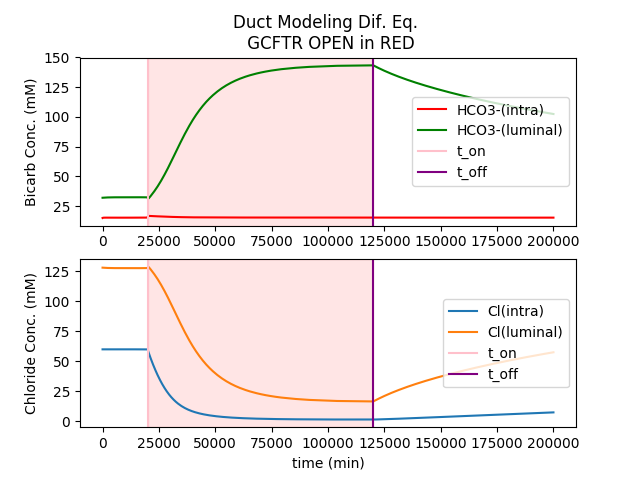
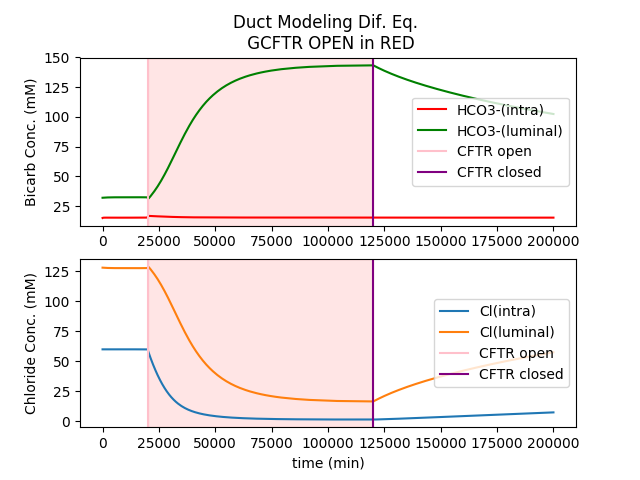
added smoking penalty and combination of smoking with variants

diff --git a/DCW_duct_graphing_functions.py b/DCW_duct_graphing_functions.py
@@ -18,7 +18,7 @@ import numpy.random as rnd
 import copy
 from DCW_duct_model import duct_model_system, init_cond
 
-def graph_generation(graph_type, input_dict, variant_impact = None):
+def graph_generation(graph_type, input_dict, variant_impact = None, smoking_status = None):
 	filename = None
 	if graph_type == 'GCFTR':
 		filename = graph_CFTR(cftr_calc_HCO3_Cl(input_dict, 20000, 120000, 200000),'GCFTR')
@@ -29,6 +29,11 @@ def graph_generation(graph_type, input_dict, variant_impact = None):
 		filename = graph_antiporters(antiporters_calc(input_dict, 20000, 120000, 200000), 'antiporter_onoff')
 	elif graph_type == 'Variant Impact':
 		filename = graph_variant_impact(calc_variant_impact(input_dict, 20000, 120000, 200000, variant_impact), 'variant_impact')
+	elif graph_type == 'Smoking':
+		filename = graph_smoking_impact(calc_smoking_impact(input_dict, 20000, 120000, 200000, smoking_status), 'smoking_impact')
+	# Add smoking and variant functionality in combination
+	elif graph_type == 'Smoking & Variants':
+		filename = graph_var_smoke_impact(calc_var_smoke_impact(input_dict, 20000, 120000, 200000, variant_impact, smoking_status), 'smoking_and_variant_impact')
 	return filename
 
 def cftr_calc_HCO3_Cl(input_dict, t_on, t_off, t_end):
@@ -83,8 +88,8 @@ def graph_CFTR(model_results, filename):
 	plt.subplot(2, 1, 1)
 	plt.plot(t,bi, 'r-', label = 'HCO3-(intra)')
 	plt.plot(t,bl, 'g-', label = 'HCO3-(luminal)')
-	plt.axvline(x=t_on, color = 'pink', label = 't_on')
-	plt.axvline(x=t_off, color = 'purple', label = 't_off')
+	plt.axvline(x=t_on, color = 'pink', label = 'CFTR open')
+	plt.axvline(x=t_off, color = 'purple', label = 'CFTR closed')
 	plt.axvspan(t_on, t_off, alpha=0.1, color='red')
 	plt.legend(loc = 'right')
 	plt.title('Duct Modeling Dif. Eq. \n GCFTR OPEN in RED')
@@ -94,8 +99,8 @@ def graph_CFTR(model_results, filename):
 	plt.subplot(2, 1, 2)
 	plt.plot(t,ci, label = 'Cl(intra)')
 	plt.plot(t,(160- bl), label = 'Cl(luminal)')
-	plt.axvline(x=t_on, color = 'pink', label = 't_on')
-	plt.axvline(x=t_off, color = 'purple', label = 't_off')
+	plt.axvline(x=t_on, color = 'pink', label = 'CFTR open')
+	plt.axvline(x=t_off, color = 'purple', label = 'CFTR closed')
 	plt.axvspan(t_on, t_off, alpha=0.1, color='red')
 	plt.xlabel('time (min)')
 	plt.ylabel('Chloride Conc. (mM)')
@@ -324,14 +329,16 @@ def graph_variant_impact(model_results, filename):
 	ni_var = model_results[1][0][4]
 	variant_input_dict = model_results[1][4]
 
+	plt.style.use('seaborn')
+
 	# Upper Plot
 	plt.subplot(2, 1, 1)
 	plt.plot(t,bi, 'r-', label = 'HCO3-(intra)')
-	plt.plot(t_var,bi_var, 'r-', label = 'HCO3-(intra) VAR', alpha = 0.25)
-	plt.plot(t_var,bl_var, 'g-', label = 'HCO3-(luminal) VAR', alpha = 0.25)
+	plt.plot(t_var,bi_var, 'r-', label = 'HCO3-(intra) VAR', linestyle= '--', alpha = 0.25)
+	plt.plot(t_var,bl_var, 'g-', label = 'HCO3-(luminal) VAR', linestyle= '--', alpha = 0.25)
 	plt.plot(t,bl, 'g-', label = 'HCO3-(luminal)')
-	plt.axvline(x=t_on, color = 'pink', label = 't_on')
-	plt.axvline(x=t_off, color = 'purple', label = 't_off')
+	plt.axvline(x=t_on, color = 'pink', label = 'CFTR open')
+	plt.axvline(x=t_off, color = 'purple', label = 'CFTR closed')
 	plt.axvspan(t_on, t_off, alpha=0.1, color='red')
 	plt.legend(loc = 'right')
 	plt.title('Duct Modeling Dif. Eq. \n GCFTR OPEN in RED \n Variants WT%:'+str(variant_input_dict))
@@ -340,11 +347,11 @@ def graph_variant_impact(model_results, filename):
 	# Lower Plot
 	plt.subplot(2, 1, 2)
 	plt.plot(t,ci, 'y-', label = 'Cl(intra)')
-	plt.plot(t_var,ci_var, 'y-', label = 'Cl(intra) VAR', alpha = 0.25)
-	plt.plot(t_var,(160- bl_var), 'b-', label = 'Cl(luminal) VAR', alpha = 0.25)
+	plt.plot(t_var,ci_var, 'y-', label = 'Cl(intra) VAR', linestyle= '--', alpha = 0.25)
+	plt.plot(t_var,(160- bl_var), 'b-', label = 'Cl(luminal) VAR', linestyle= '--', alpha = 0.25)
 	plt.plot(t,(160- bl), 'b-', label = 'Cl(luminal)')
-	plt.axvline(x=t_on, color = 'pink', label = 't_on')
-	plt.axvline(x=t_off, color = 'purple', label = 't_off')
+	plt.axvline(x=t_on, color = 'pink', label = 'CFTR open')
+	plt.axvline(x=t_off, color = 'purple', label = 'CFTR closed')
 	plt.axvspan(t_on, t_off, alpha=0.1, color='red')
 	plt.xlabel('time (min)')
 	plt.ylabel('Chloride Conc. (mM)')
@@ -356,4 +363,221 @@ def graph_variant_impact(model_results, filename):
 	plt.show()
 	return filename
 
+def calc_smoking_impact(input_dict, t_on, t_off, t_end, smoking_status):
+	# Wrapper function to pass dictionary parameters through solve_ivp
+	def wrapper_fxn(t, y):
+		return duct_model_system(t, y, cond)
+	# Copy Input Dictionary so Initial Dictionary is Unaltered
+	cond = copy.deepcopy(input_dict)
 
+	model_results = []
+
+	model_results.append(cftr_calc_HCO3_Cl(input_dict, t_on, t_off, t_end))
+
+	# Adjust for change in chloride transport from Cutting Paper
+	if smoking_status == 'light':
+		# from paper Nicotine (hurts light, protective heavy)
+		# "Inhibition of Pancreatic Secretion in Man by Cigarrette Smoking" - T. Bynum et al.
+		cond['smoke_adj'] = 0.4
+
+	# Period Before gcftr opens
+	cond['gcftr'] = init_cond['gcftrbase']
+	y0_0 = [cond['bi'], cond['bl'], cond['ci'], cond['ni'], cond['gcftr']]
+	state0 = solve_ivp(wrapper_fxn, [0,t_on], y0_0)
+	print(cond['smoke_adj'])
+
+	# Period where gcftr is open
+	# Turn gcftr 'on' and re-initialize boundary conditions
+	cond['gcftr'] = cond['gcftron']
+	cond['bi'] = state0['y'][0][-1]
+	cond['bl'] = state0['y'][1][-1]
+	cond['ci'] = state0['y'][2][-1]
+	cond['ni'] = state0['y'][3][-1]
+	y0_1 = [cond['bi'], cond['bl'], cond['ci'], cond['ni'], cond['gcftr']]
+	state1 = solve_ivp(wrapper_fxn, [t_on,t_off], y0_1)
+	# Period where gcftr closes to end
+	# Turn gcftr 'on' and re-initialize boundary conditions
+	cond['gcftr'] = cond['gcftrbase']
+	cond['bi'] = state1['y'][0][-1]
+	cond['bl'] = state1['y'][1][-1]
+	cond['ci'] = state1['y'][2][-1]
+	cond['ni'] = state1['y'][3][-1]
+	y0_2 = [cond['bi'], cond['bl'], cond['ci'], cond['ni'], cond['gcftr']]
+	state2 = solve_ivp(wrapper_fxn, [t_off,t_end], y0_2)
+
+	t_graph = np.concatenate([state0['t'], state1['t'], state2['t']])
+	bi_graph = np.concatenate([state0['y'][0], state1['y'][0], state2['y'][0]])
+	bl_graph = np.concatenate([state0['y'][1], state1['y'][1], state2['y'][1]])
+	ci_graph = np.concatenate([state0['y'][2], state1['y'][2], state2['y'][2]])
+	ni_graph = np.concatenate([state0['y'][3], state1['y'][3], state2['y'][3]])
+
+	model_results.append([[t_graph, bi_graph, bl_graph, ci_graph, ni_graph], t_on, t_off, t_end, smoking_status])
+	print(str(len(model_results)) + 'is the length of the array')
+	return model_results
+
+def graph_smoking_impact(model_results, filename):
+	# Unpack Vars
+	t = model_results[0][0][0]
+	bi = model_results[0][0][1]
+	bl = model_results[0][0][2]
+	ci = model_results[0][0][3]
+	ni = model_results[0][0][4]
+	t_on = model_results[0][1]
+	t_off = model_results[0][2]
+	t_end = model_results[0][3]
+
+	t_var = model_results[1][0][0]
+	bi_var = model_results[1][0][1]
+	bl_var = model_results[1][0][2]
+	ci_var = model_results[1][0][3]
+	ni_var = model_results[1][0][4]
+	smoking_status = model_results[1][4]
+
+	plt.style.use('seaborn')
+
+	# Upper Plot
+	plt.subplot(2, 1, 1)
+	plt.plot(t,bi, 'r-', label = 'HCO3-(intra)')
+	plt.plot(t_var,bi_var, 'r-', label = 'HCO3-(intra) VAR', linestyle= '--', alpha = 0.25)
+	plt.plot(t_var,bl_var, 'g-', label = 'HCO3-(luminal) VAR', linestyle= '--', alpha = 0.25)
+	plt.plot(t,bl, 'g-', label = 'HCO3-(luminal)')
+	plt.axvline(x=t_on, color = 'pink', label = 'CFTR open')
+	plt.axvline(x=t_off, color = 'purple', label = 'CFTR closed')
+	plt.axvspan(t_on, t_off, alpha=0.1, color='red')
+	plt.legend(loc = 'right')
+	plt.title('Duct Modeling Dif. Eq. \n GCFTR OPEN in RED \n Smoking Level:'+str(smoking_status))
+	plt.ylabel('Bicarb Conc. (mM)')
+
+	# Lower Plot
+	plt.subplot(2, 1, 2)
+	plt.plot(t,ci, 'y-', label = 'Cl(intra)')
+	plt.plot(t_var,ci_var, 'y-', label = 'Cl(intra) VAR', linestyle= '--', alpha = 0.25)
+	plt.plot(t_var,(160- bl_var), 'b-', label = 'Cl(luminal) VAR', linestyle= '--', alpha = 0.25)
+	plt.plot(t,(160- bl), 'b-', label = 'Cl(luminal)')
+	plt.axvline(x=t_on, color = 'pink', label = 'CFTR open')
+	plt.axvline(x=t_off, color = 'purple', label = 'CFTR closed')
+	plt.axvspan(t_on, t_off, alpha=0.1, color='red')
+	plt.xlabel('time (min)')
+	plt.ylabel('Chloride Conc. (mM)')
+	plt.legend(loc = 'right')
+
+
+
+	plt.savefig(filename) # store local copy for later use
+	plt.show()
+	return filename
+
+def calc_var_smoke_impact(input_dict, t_on, t_off, t_end, variant_input_dict, smoking_status):
+	# Wrapper function to pass dictionary parameters through solve_ivp
+	def wrapper_fxn(t, y):
+		return duct_model_system(t, y, cond)
+	# Copy Input Dictionary so Initial Dictionary is Unaltered
+	cond = copy.deepcopy(input_dict)
+
+	model_results = []
+
+	model_results.append(cftr_calc_HCO3_Cl(input_dict, t_on, t_off, t_end))
+
+	# Adjust for change in chloride transport from Cutting Paper
+	if smoking_status == 'light':
+		# from paper Nicotine (hurts light, protective heavy)
+		# "Inhibition of Pancreatic Secretion in Man by Cigarrette Smoking" - T. Bynum et al.
+		cond['smoke_adj'] = 0.4
+
+	# Accomodate patient variants
+	variant_wt_func_list = []
+	for key in variant_input_dict:
+		variant_wt_func_list.append(variant_input_dict[key])
+	total_impact = np.mean(variant_wt_func_list)
+
+	# Adjust for change in chloride transport from Cutting Paper
+	cond['cond_adj'] = total_impact / 100
+
+	# Period Before gcftr opens
+	cond['gcftr'] = init_cond['gcftrbase']
+	y0_0 = [cond['bi'], cond['bl'], cond['ci'], cond['ni'], cond['gcftr']]
+	state0 = solve_ivp(wrapper_fxn, [0,t_on], y0_0)
+	print(cond['smoke_adj'])
+	print(cond['cond_adj'])
+
+	# Period where gcftr is open
+	# Turn gcftr 'on' and re-initialize boundary conditions
+	cond['gcftr'] = cond['gcftron']
+	cond['bi'] = state0['y'][0][-1]
+	cond['bl'] = state0['y'][1][-1]
+	cond['ci'] = state0['y'][2][-1]
+	cond['ni'] = state0['y'][3][-1]
+	y0_1 = [cond['bi'], cond['bl'], cond['ci'], cond['ni'], cond['gcftr']]
+	state1 = solve_ivp(wrapper_fxn, [t_on,t_off], y0_1)
+	# Period where gcftr closes to end
+	# Turn gcftr 'on' and re-initialize boundary conditions
+	cond['gcftr'] = cond['gcftrbase']
+	cond['bi'] = state1['y'][0][-1]
+	cond['bl'] = state1['y'][1][-1]
+	cond['ci'] = state1['y'][2][-1]
+	cond['ni'] = state1['y'][3][-1]
+	y0_2 = [cond['bi'], cond['bl'], cond['ci'], cond['ni'], cond['gcftr']]
+	state2 = solve_ivp(wrapper_fxn, [t_off,t_end], y0_2)
+
+	t_graph = np.concatenate([state0['t'], state1['t'], state2['t']])
+	bi_graph = np.concatenate([state0['y'][0], state1['y'][0], state2['y'][0]])
+	bl_graph = np.concatenate([state0['y'][1], state1['y'][1], state2['y'][1]])
+	ci_graph = np.concatenate([state0['y'][2], state1['y'][2], state2['y'][2]])
+	ni_graph = np.concatenate([state0['y'][3], state1['y'][3], state2['y'][3]])
+
+	model_results.append([[t_graph, bi_graph, bl_graph, ci_graph, ni_graph], t_on, t_off, t_end, variant_input_dict, smoking_status])
+	print(str(len(model_results)) + 'is the length of the array')
+	return model_results
+
+def graph_var_smoke_impact(model_results, filename):
+	# Unpack Vars
+	t = model_results[0][0][0]
+	bi = model_results[0][0][1]
+	bl = model_results[0][0][2]
+	ci = model_results[0][0][3]
+	ni = model_results[0][0][4]
+	t_on = model_results[0][1]
+	t_off = model_results[0][2]
+	t_end = model_results[0][3]
+
+	t_var_smoke = model_results[1][0][0]
+	bi_var_smoke = model_results[1][0][1]
+	bl_var_smoke = model_results[1][0][2]
+	ci_var_smoke = model_results[1][0][3]
+	ni_var_smoke = model_results[1][0][4]
+	variant_input_dict = model_results[1][4]
+	smoking_status = model_results[1][5]
+
+	plt.style.use('seaborn')
+
+	# Upper Plot
+	plt.subplot(2, 1, 1)
+	plt.plot(t,bi, 'r-', label = 'HCO3-(intra)')
+	plt.plot(t_var_smoke,bi_var_smoke, 'r-', label = 'HCO3-(intra) VAR', linestyle= '--', alpha = 0.25)
+	plt.plot(t_var_smoke,bl_var_smoke, 'g-', label = 'HCO3-(luminal) VAR', linestyle= '--', alpha = 0.25)
+	plt.plot(t,bl, 'g-', label = 'HCO3-(luminal)')
+	plt.axvline(x=t_on, color = 'pink', label = 'CFTR open')
+	plt.axvline(x=t_off, color = 'purple', label = 'CFTR closed')
+	plt.axvspan(t_on, t_off, alpha=0.1, color='red')
+	plt.legend(loc = 'right')
+	plt.title('Duct Modeling Dif. Eq. \n CFTR OPEN in RED \n Smoking Level:'+str(smoking_status) +'\n Variants:'+str(variant_input_dict))
+	plt.ylabel('Bicarb Conc. (mM)')
+
+	# Lower Plot
+	plt.subplot(2, 1, 2)
+	plt.plot(t,ci, 'y-', label = 'Cl(intra)')
+	plt.plot(t_var_smoke,ci_var_smoke, 'y-', label = 'Cl(intra) VAR', linestyle= '--', alpha = 0.25)
+	plt.plot(t_var_smoke,(160- bl_var_smoke), 'b-', label = 'Cl(luminal) VAR', linestyle= '--', alpha = 0.25)
+	plt.plot(t,(160- bl), 'b-', label = 'Cl(luminal)')
+	plt.axvline(x=t_on, color = 'pink', label = 'CFTR open')
+	plt.axvline(x=t_off, color = 'purple', label = 'CFTR closed')
+	plt.axvspan(t_on, t_off, alpha=0.1, color='red')
+	plt.xlabel('time (min)')
+	plt.ylabel('Chloride Conc. (mM)')
+	plt.legend(loc = 'right')
+
+
+
+	plt.savefig(filename) # store local copy for later use
+	plt.show()
+	return filename

diff --git a/duct_model_events.py b/duct_model_events.py
@@ -36,7 +36,7 @@ class MainWindow(QMainWindow, Ui_MainWindow):
 		self.duct_model_default_inputs = init_cond
 
 		# Graphing Options
-		self.graph_ops = ['-', 'Variant Impact', 'GCFTR', 'Volume Ratios', 'Antiporters']
+		self.graph_ops = ['-', 'Variant Impact', 'GCFTR', 'Volume Ratios', 'Antiporters', 'Smoking', 'Smoking & Variants']
 		self.comboBox_graph_options.addItems(self.graph_ops)
 
 		# Variant Options
@@ -78,6 +78,10 @@ class MainWindow(QMainWindow, Ui_MainWindow):
 		if self.graph_type != '-':
 			if self.graph_type == 'Variant Impact':
 				graph_generation(self.graph_type, init_cond, variant_impact = self.loaded_vars)
+			elif self.graph_type == 'Smoking':
+				graph_generation(self.graph_type, init_cond, smoking_status = 'light')
+			elif self.graph_type == 'Smoking & Variants':
+				graph_generation(self.graph_type, init_cond, variant_impact = self.loaded_vars, smoking_status = 'light')
 			else:
 				graph_generation(self.graph_type, init_cond)
 

diff --git a/DCW_duct_model.py b/DCW_duct_model.py
@@ -26,7 +26,7 @@ init_cond = {'g_bi': 0.2, 'g_cl': 1, 'zeta': 0.05,
 			  'cap': 1, 'gnak': 3.125, 'np0': 25, 'epump': -0.2,
 			  'ionstr': 160, 'gnaleak': 0.4, 'jac': 0.025, 
 			  'rat': 0.25, 'cond_adj': 1, 'vr': 0.1, 'apb_status': True,
-			  'ap_status': True, 'gcftr': 0.00007}
+			  'ap_status': True, 'gcftr': 0.00007, 'smoke_adj': 1}
 
 # Antiporter Fxn (ap(ao,ai,bo,bi,ka,kb) in original)
 def antiporter(ao,ai,bo,bi,ka,kb):
@@ -90,6 +90,7 @@ def duct_model_system(t, y, cond):
 
 	# Unpack Added Variables
 	cond_adj = cond['cond_adj']
+	smoke_adj = cond['smoke_adj']
 
 	# Nernst Potentials
 	eb = nernst_potential(bi, bl)
@@ -107,7 +108,7 @@ def duct_model_system(t, y, cond):
 
 	# Flux Calculations
 	jnbc = knbc*(v-enbc)
-	jbcftr = kbcf*(v-eb)
+	jbcftr = kbcf*(v-eb) * smoke_adj
 	jccftr = kccf*(v-ec) * cond_adj
 
 	# Antiporter Status (Open = True, Close = False)
